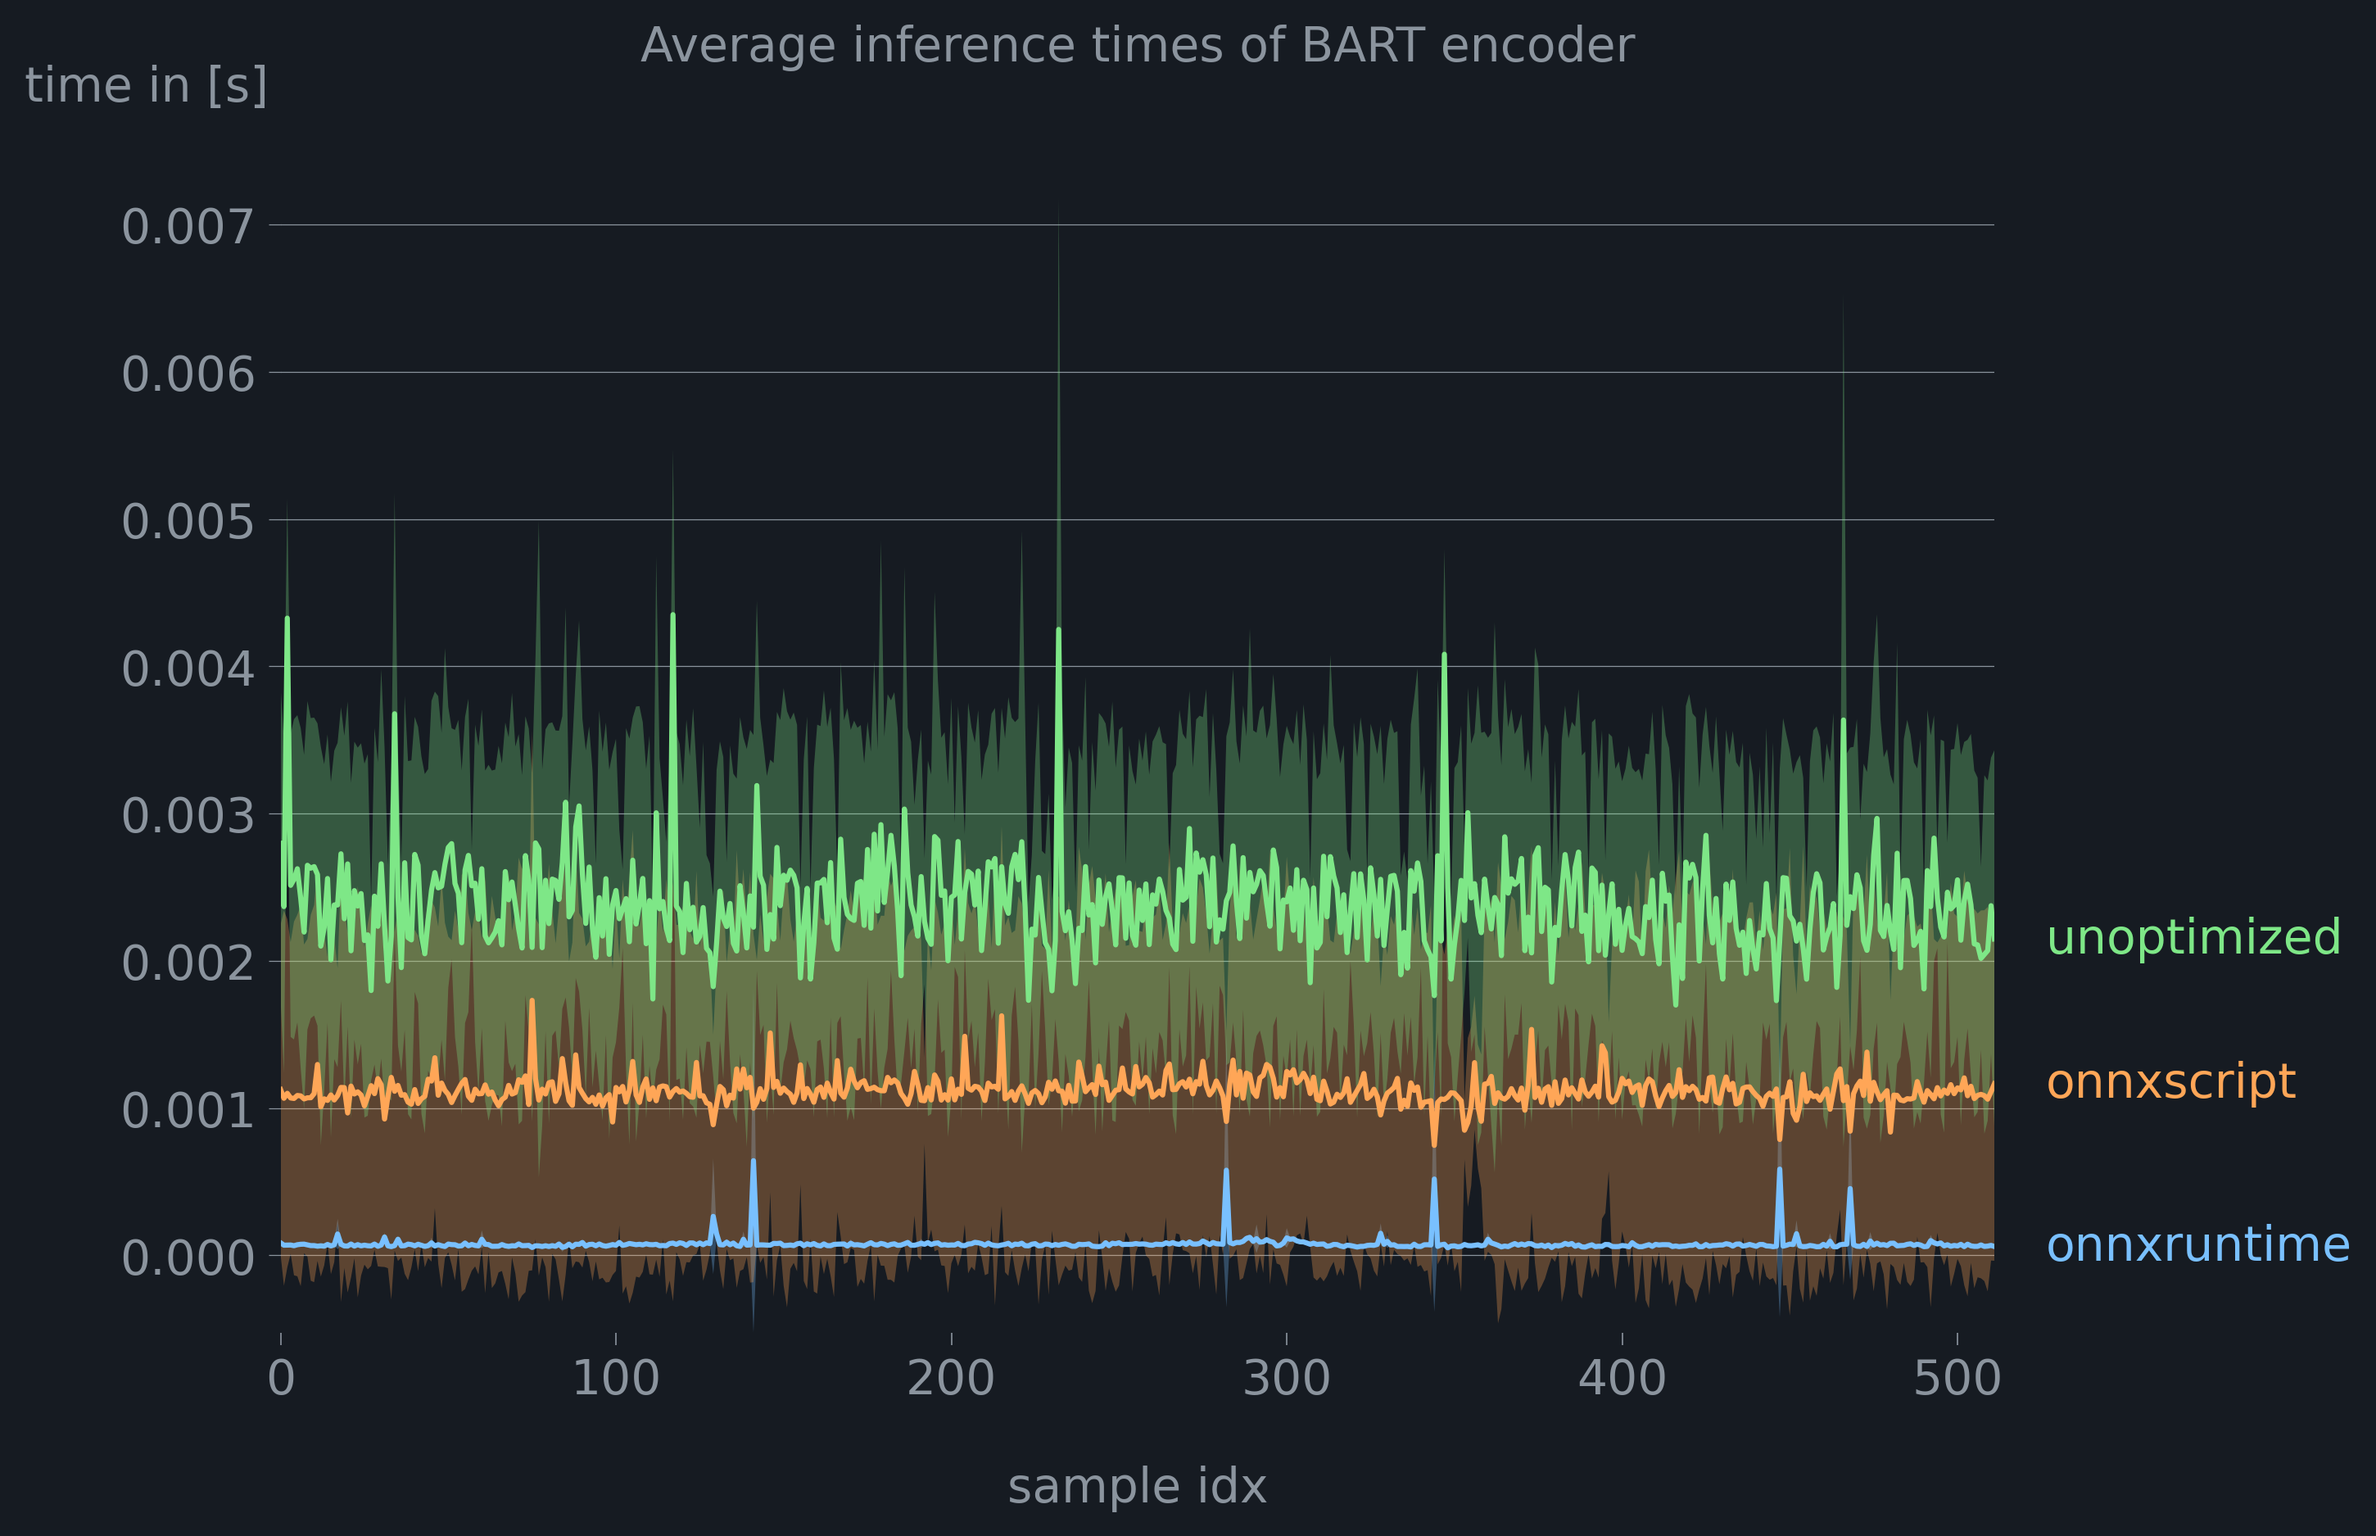
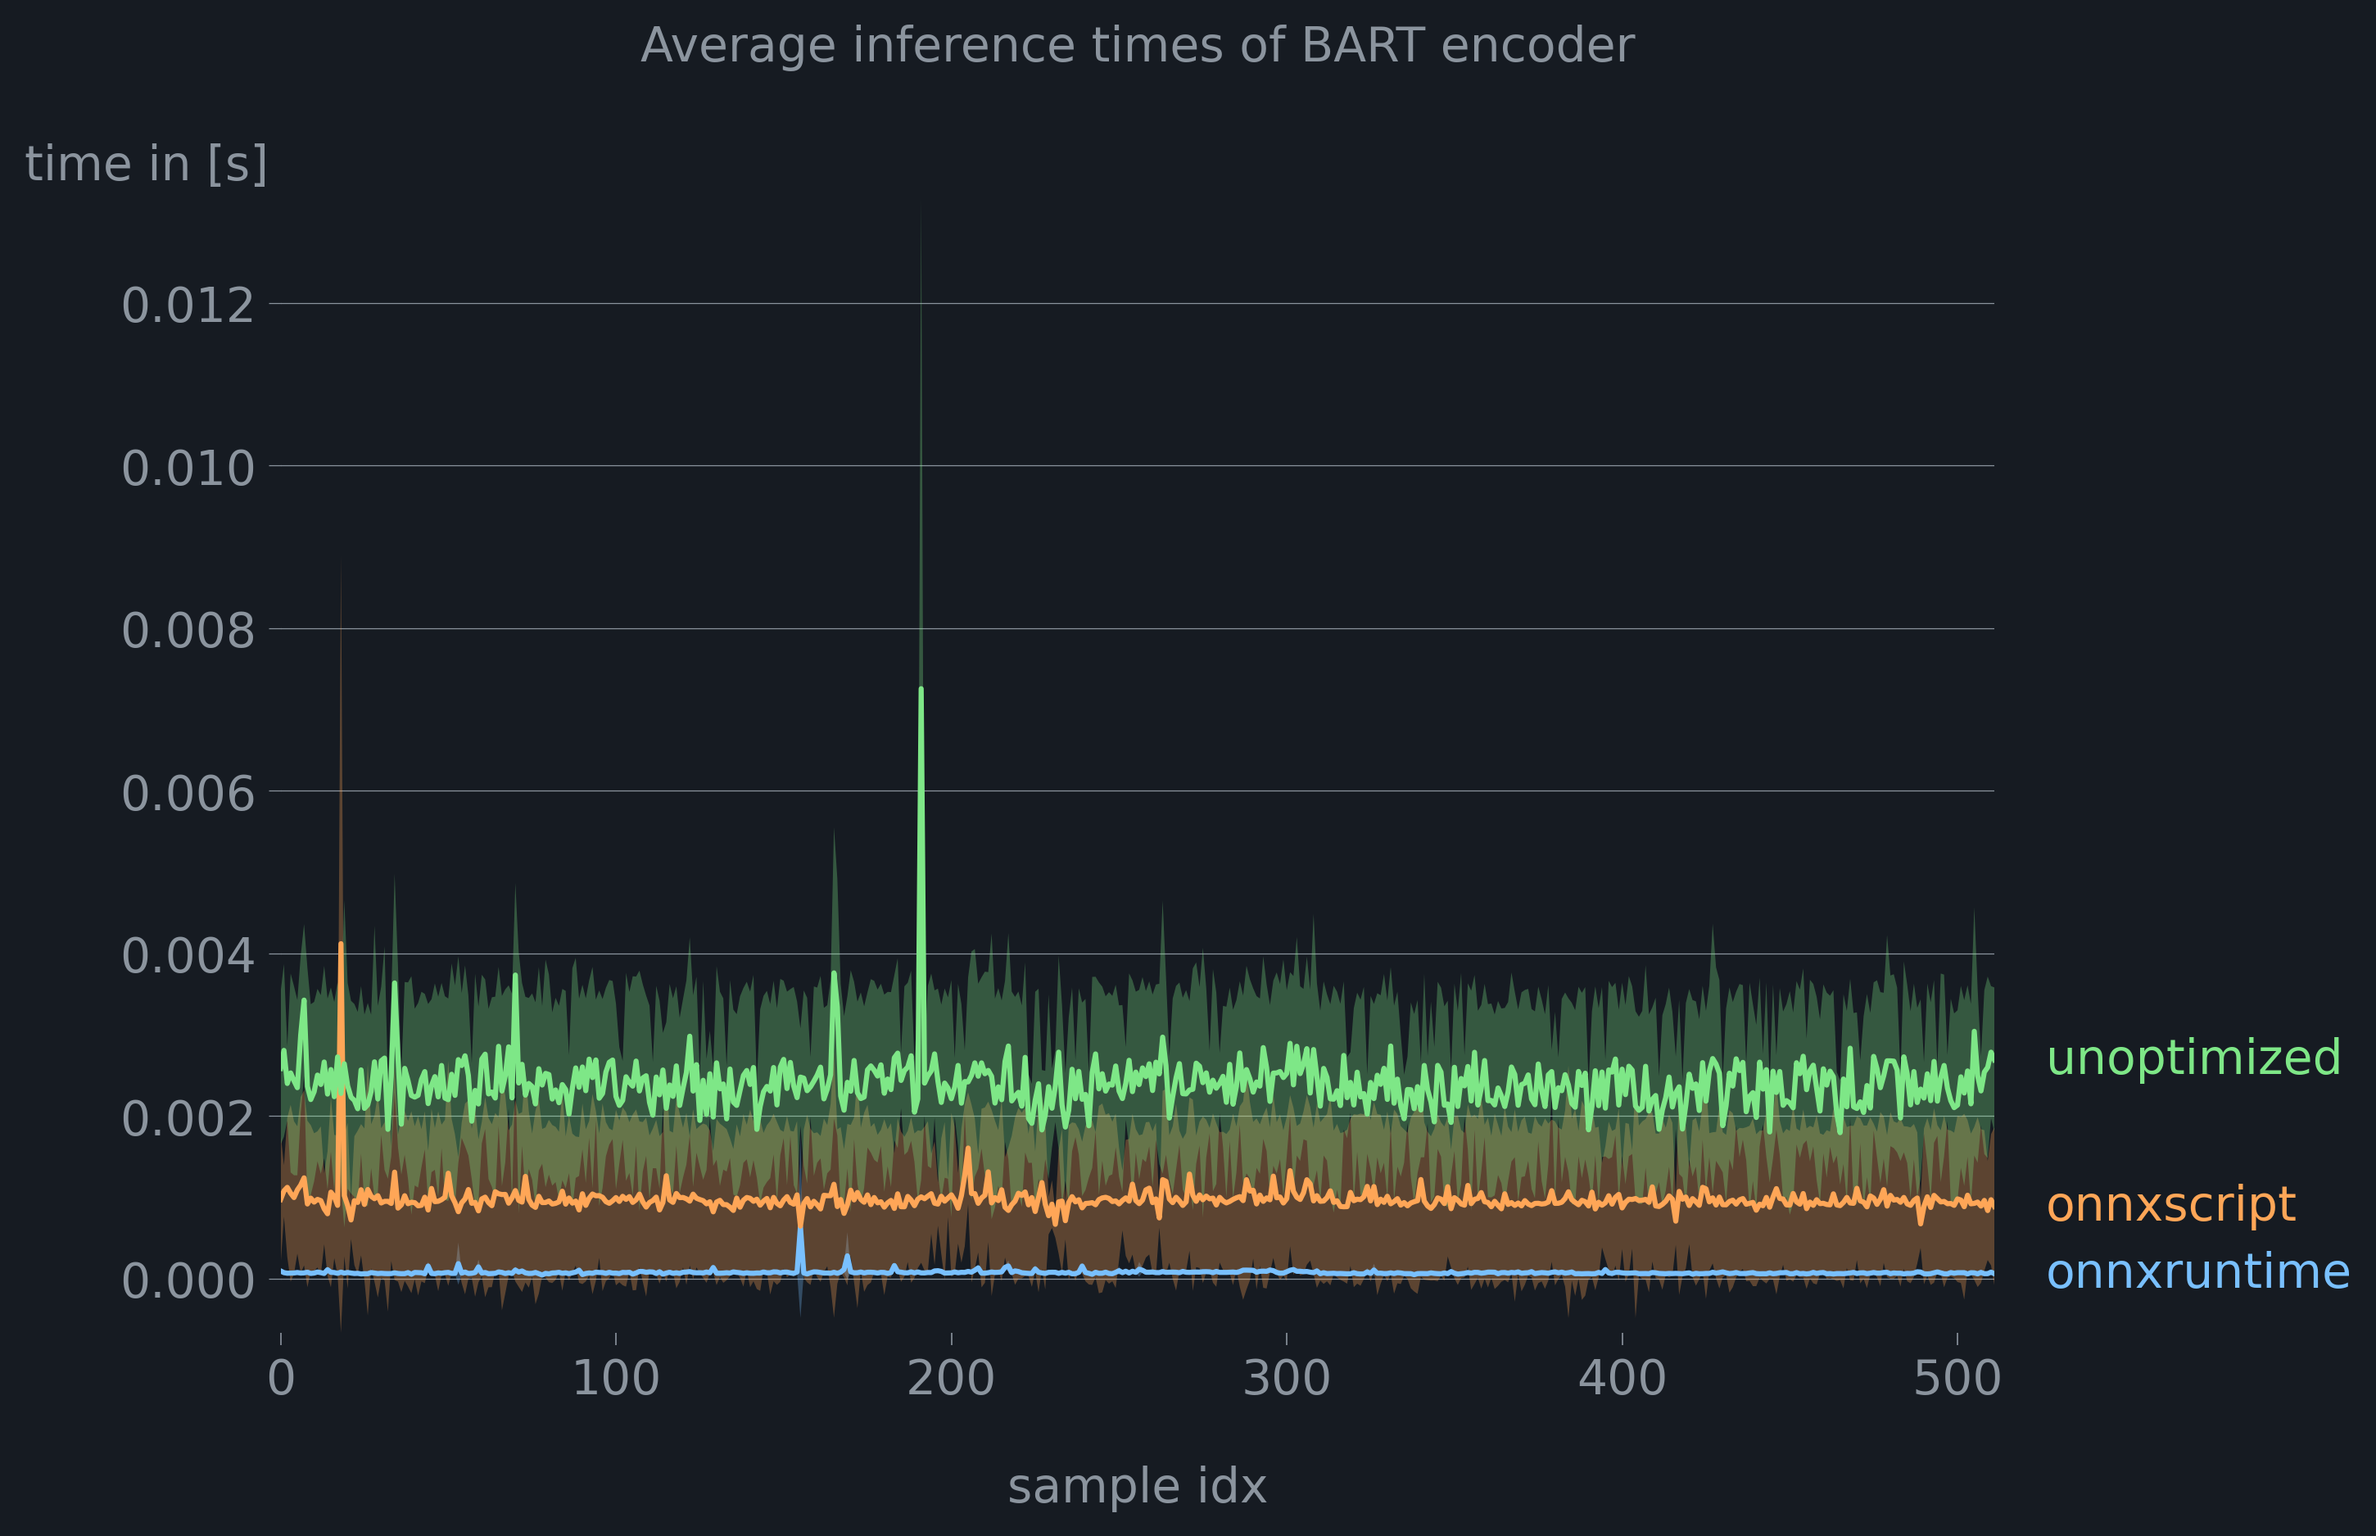
feat: retrieve correct num of heads + conclusion

diff --git a/content/post/attention-fusion-onnx/index.md b/content/post/attention-fusion-onnx/index.md
@@ -175,7 +175,7 @@ abs difference: 2.3841858e-07
 
 That's reasonably close. :100:
 
-### BART attention fusion with onnxscript
+### BART attention fusion with custom rules in onnxscript
 
 As discussed, `onnxruntime` is currently the most evolved solution to perform operator fusion. Let's now look at the new kid on the block, [`onnxscript`](https://github.com/microsoft/onnxscript). `onnxscript` is a way to naturally author onnx functions and models using a subset of python. Useful for our endeavour, it also includes an optimizer to optimize onnx models (do e.g., constant folding) and a rewriter to replace patterns in graph with replacement patterns. It comes with a large set of rewrite rules and we can even author our own rewrite rules.
 
@@ -215,10 +215,9 @@ class FuseBARTSDPARule(rewriter.pattern.RewriteRuleClassBase):
             op.Constant(),
             op.Constant(),
             axis=0,
+            _outputs=["q_shape"],
         )
-        q_reshaped = op.Reshape(
-            q_add, q_shape_concat, allowzero=0, _outputs=["q_reshaped"]
-        )
+        q_reshaped = op.Reshape(q_add, q_shape_concat, allowzero=0)
 
         q_transposed = op.Transpose(q_reshaped, perm=[0, 2, 1, 3])
 
@@ -295,9 +294,9 @@ class FuseBARTSDPARule(rewriter.pattern.RewriteRuleClassBase):
         q_bias: ir.Value,
         k_bias: ir.Value,
         v_bias: ir.Value,
-        q_reshaped: ir.Value,
+        q_shape: ir.Value,
     ):
-        num_heads = _ir_utils.get_dim(q_reshaped, 2)
+        num_heads = _ir_utils.get_singleton_value(q_shape.producer().inputs[-2])
         if not isinstance(num_heads, int):
             return None
 
@@ -337,7 +336,7 @@ class FuseBARTSDPARule(rewriter.pattern.RewriteRuleClassBase):
         )
 ```
 
-There is a lot going on, so let's focus on the highlights. First, we we are storing the output of the reshaped query matrix in a variable `q_reshaped` in `pattern(...)`. Similar to `onnxruntime` we can thereby auto-detect the number of attention heads based on the shape of the tensor.[^6]
+There is a lot going on, so let's focus on the highlights. First, we we are storing the shape of the reshaped query matrix in a variable `q_shape` in `pattern(...)`. Similar to `onnxruntime` we can thereby auto-detect the number of attention heads based on the shape of the tensor. In a similar vain, we fallback to inputs from the concat, as e.g., `get_dim(...)` on `op.Reshape(...)` would give dynamic shapes [^6]
 
 Other than in the original transformer paper, the query and key transpose are scaled separately by `1/sqrt(dim_k)` *before* the `MatMul`. This is often done for numerical stability and prevents values from blowing up, if dims of query and key are large.[^7]
 
@@ -401,7 +400,7 @@ I wrote a simple benchmarking script (`TODO: add link`) to measure the performan
 
 ![inference times for bart](inference_times_bart.png)
 
-If we only fuse attention, we get a [speedup](https://en.wikipedia.org/wiki/Speedup) of approx. ×2. If we also enable other operator fusions, as in the onnxruntime case, we se up to ×30 speedups.
+If we fuse attention, we get a [speedup](https://en.wikipedia.org/wiki/Speedup) of approx. ×2.4. If we also enable other operator fusions, as in the onnxruntime case, we se up to ×30 speedups.
 
 ## SWIN encoder
 
@@ -505,9 +504,12 @@ class FuseSDPARule(pattern.RewriteRuleClassBase):
             pattern.ANY_VALUE,
             pattern.ANY_VALUE,
             axis=0,
+            _outputs=["q_shape"],
         )
         q_reshaped = op.Reshape(
-            q_add, q_shape_concat, allowzero=0, _outputs=["q_reshaped"]
+            q_add,
+            q_shape_concat,
+            allowzero=0,
         )
         q_transposed = op.Transpose(q_reshaped, perm=[0, 2, 1, 3])
 
@@ -594,7 +596,7 @@ class FuseSDPARule(pattern.RewriteRuleClassBase):
         q_bias,
         k_bias,
         v_bias,
-        q_reshaped,
+        q_shape,
     ):
         # Pack the weights and biases for Q, K, V
         qkv_weight_packed = op.initializer(
@@ -623,7 +625,7 @@ class FuseSDPARule(pattern.RewriteRuleClassBase):
             ),
             name="qkv_bias",
         )
-        num_heads = _ir_utils.get_dim(q_reshaped, 2)
+        num_heads = _ir_utils.get_singleton_value(q_shape.producer().inputs[-2])
         if not isinstance(num_heads, int):
             return None
         # NOTE: This is custom op Attention!
@@ -641,6 +643,10 @@ class FuseSDPARule(pattern.RewriteRuleClassBase):
         )
 ```
 
+```yaml
+TODO: code still uses custom op. Could be ok.
+```
+
 ## Performance results for SWIN
 
 Stand up to the test
@@ -651,14 +657,17 @@ Unfortunately, attention fusion is a very brittle process, which lead to the dev
 
 To keep things simple, our focus till now, was only on SDPA. In practice, we will also have to deal with cross-attention, kv caches,....
 
+![attention fusion is fun they said](attention_fusion_is_fun.png)
+
 ## Contributions
 
-While researching for this blog post, I contributed smaller fixes, which were a great learning opportunity:
+While researching for this blog post, I contributed some fixes, which posed a great learning opportunity:
 
-- added support to `BiasGeluFusion` to fuse Gelu from onnx domain and shape validation (see [onnxscript/gh-2364](https://github.com/microsoft/onnxscript/pull/2364/) + [onnxscript/gh-2393](https://github.com/microsoft/onnxscript/pull/2393/))
-- fixed attention fusion for BART with keys and bias term (see [onnxruntime/gh-25046](https://github.com/microsoft/onnxruntime/pull/25046))
-- fixed `SkipLayerNormFusion` in onnxscript for default attributes (see [onnxscript/gh-2378](https://github.com/microsoft/onnxscript/issues/2378))
-- improved docs for function-based rewrites in onnxscript (see [onnscript/gh-2359](https://github.com/microsoft/onnxscript/pull/2359))
+1. added support to `BiasGeluFusion` to fuse Gelu from onnx domain and shape validation (see [onnxscript/gh-2364](https://github.com/microsoft/onnxscript/pull/2364/) + [onnxscript/gh-2393](https://github.com/microsoft/onnxscript/pull/2393/))
+1. fixed `SkipLayerNormFusion` in onnxscript for default attributes and handle reversed inputs (see [onnxscript/gh-2396](https://github.com/microsoft/onnxscript/issues/2378))
+1. fixed attention fusion for BART with keys and bias term (see [onnxruntime/gh-25046](https://github.com/microsoft/onnxruntime/pull/25046))
+1. fixed pre-fixing of graphs in onnx helpers, when `rename_inputs=False/rename_outputs=False`(see [onnx/6994](https://github.com/onnx/onnx/pull/6994))
+1. improved docs for function-based rewrites in onnxscript (see [onnscript/gh-2359](https://github.com/microsoft/onnxscript/pull/2359))
 
 ## References:
 
